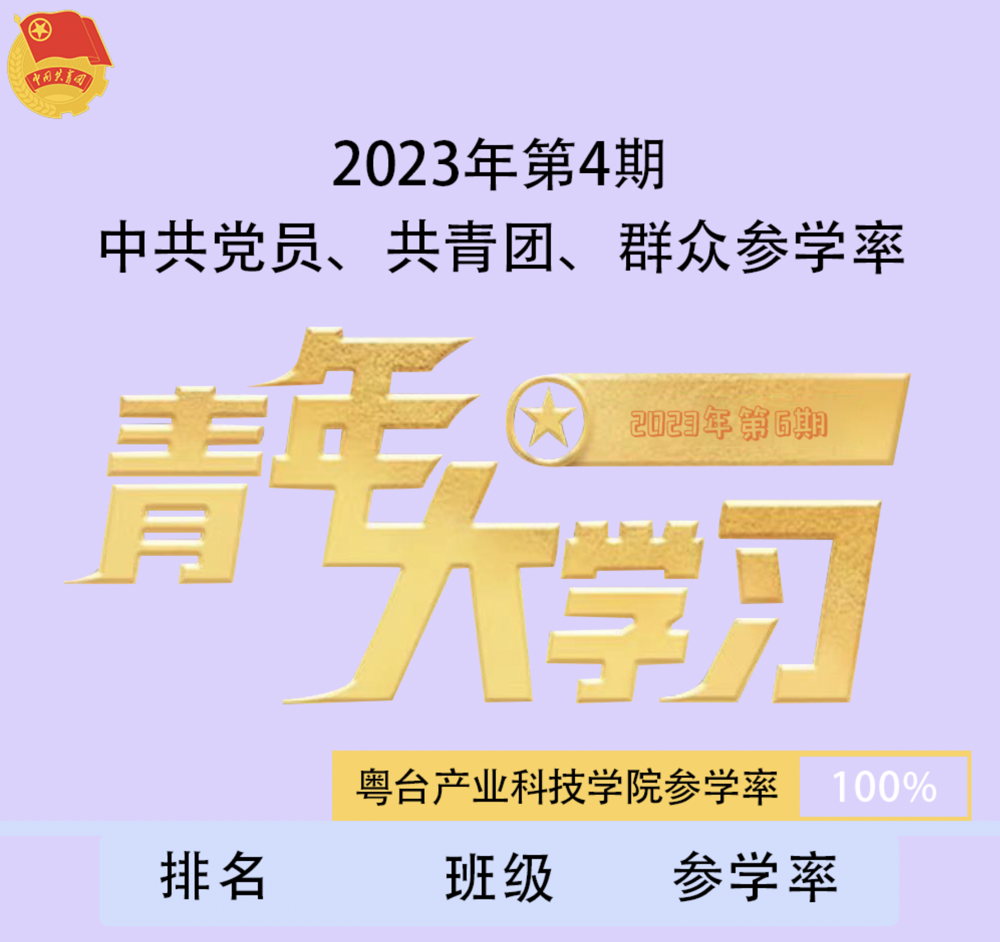
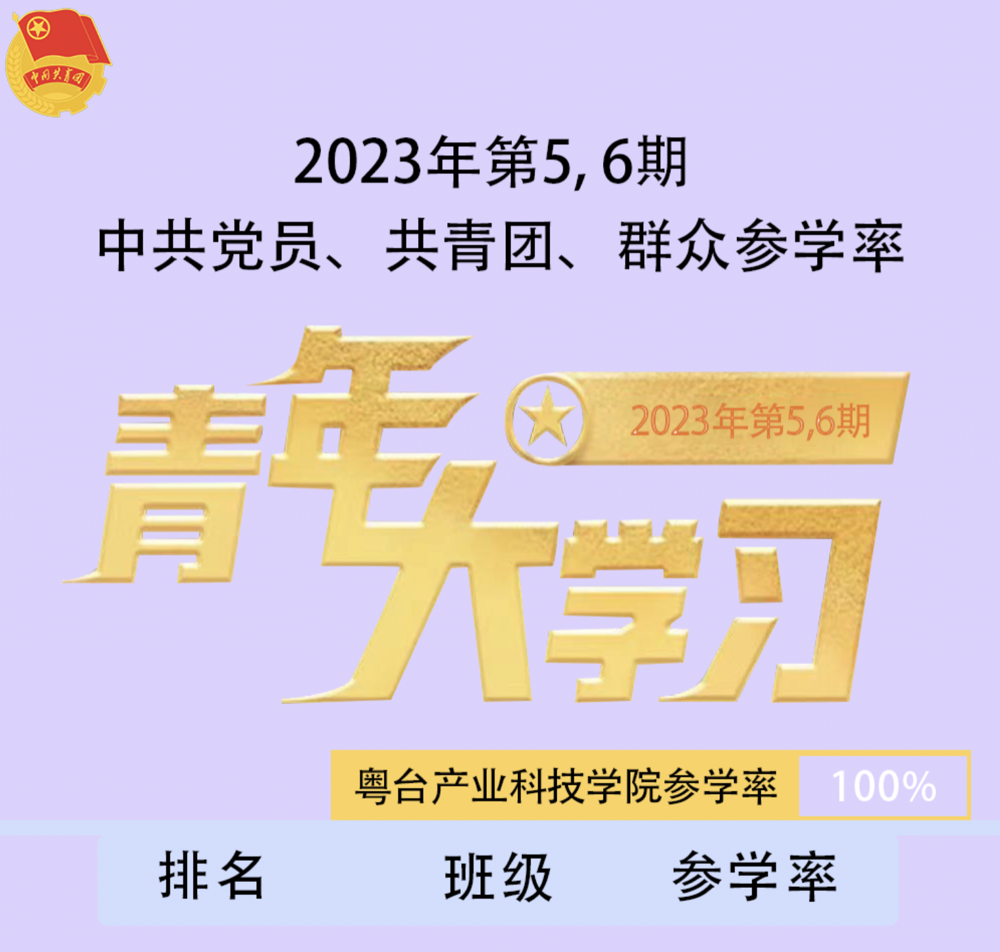
完整

diff --git a/src/App.vue b/src/App.vue
@@ -1,47 +1,54 @@
 <script setup>
 const items = [
-  ['20金融1', 104.17],
+  ['20金融1班', 104.17],
   ['20多媒体设计', 100.00],
   ['20工业设计', 94.44],
-  ['20金融2', 82.61],
+  ['20金融2班', 82.61],
   ['20电商', 70.71],
-  ['20智能制造2', 45.45],
-  ['20智能制造1', 0.00],
-  ['20第二学位', 0.00],
-  ['21金融1', 100.00],
-  ['21智能制造1', 97.37],
+  ['20智能制造2班', 45.45],
+  // ['20智能制造1', 0.00],
+  ['21金融1班', 100.00],
+  ['21智能制造1班', 97.37],
   ['21工业设计', 94.12],
-  ['21计技2班', 95.16],
-  ['21计技1班', 75],
-  ['21金融2', 86.96],
-  ['21智能制造2', 80.56],
-  ['22金融2', 151.17],
-  ['22金融1', 136.66],
+  ['21多媒体设计', 95.16],
+  ['21电商', 75],
+  ['21金融2班', 86.96],
+  ['21智能制造2班', 80.56],
+  ['22金融2班', 151.17],
+  ['22金融1班', 136.66],
   ['22多媒体设计', 111.50],
   ['22电商2班', 113.33],
   ['22电商1班', 161.11],
   ['22工业设计', 102.08],
-  ['22智能制造2', 134.92],
-  ['22第二学位', 188.95],
+  ['22智能制造2班', 134.92],
+  ['22第二学位', 100.95],
+  ['22智能制造1班', 114.29],
 ].sort((a, b) => b[1] - a[1]);
 
-let sum = 0;
-items.forEach(i => sum+= i[1]);
-const percent = (sum / items.length).toFixed(2);
+// let sum = 0;
+// items.forEach(i => sum+= i[1]);
+const percent = 67.16;//(sum / items.length).toFixed(2);
 </script>
 
 <template>
   <div class="bg">
     
-    <img width="512" src="/head.png" />
-    <!-- <img width="512" src="/head1.png" />
+    <!-- <img width="512" src="/head.png" /> -->
+    <!-- <img width="512" src="/head1.png" /> -->
+    <img class="badge" src="/badge.png" />
+    <span class="head-text">2023年第5, 6期</span>
+    <span class="head-text">中共党员、共青团、群众参学率</span>
+    <div class="young" >
+      <img src="/young.png" />
+      <span>2023年第5,6期</span>
+    </div>
     <div class="rate-box">
       粤台产业科技学院参学率
       <div>
           {{percent}}%
       </div>
     </div>
-    <img width="512" src="/head2.png" /> -->
+    <img width="512" src="/head2.png" />
     <div>
       <div v-for="(item, index) in items" class="list-item">
         <img v-if="index==0" src="/金牌.png" />
@@ -80,6 +87,11 @@ p {
   font-size: 24px;
 }
 
+.badge {
+  align-self: flex-start;
+  padding: 8px;
+}
+
 .rate-box {
   height: 64px;
   width:340px;
@@ -105,9 +117,31 @@ p {
   justify-content: center;
 }
 
+.head-text {
+  font-size: 32px;
+  font-weight: bold;
+}
+
+
+.young img {
+  width: 90%;
+}
+
+.young span {
+  position: relative;
+  display: inline-block;
+  left: 135px;
+  bottom: 176px;
+  font-size: 20px;
+  color: transparent;
+  text-shadow: 0 1px #eb7426;
+}
+
+
 .list-item {
-  width: 350px;
+  /* width: 428px; */
   display: flex;
+  align-items: center;
   flex-direction: row;
   justify-content: space-between;
   font-size: 24px;
@@ -117,6 +151,7 @@ p {
 }
 .list-item span:first-child {
   width: 16px;
+  opacity: 0.2;
 }
 
 .list-item :nth-child(2) {

diff --git a/README.md b/README.md
@@ -24,7 +24,8 @@ const items = [
   ['22电商1班', 161.11],
   ['22工业设计', 102.08],
   ['22智能制造2', 134.92],
-  ['22第二学位', 188.95],
+  ['22第二学位', 100.95],
+  ['22智能制造1', 114.29],
 ]
 ```
 ![](example.png)
